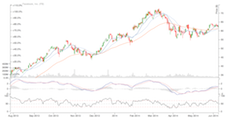
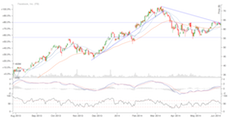
Adding trendlines, supstance and interactivity

diff --git a/examples/plot/plots/index.html b/examples/plot/plots/index.html
@@ -49,7 +49,6 @@
     }
 
     rect.pane {
-        cursor: move;
         fill: none;
         pointer-events: all;
     }
@@ -108,6 +107,32 @@
     path.middle, path.zero {
         stroke: #BBBBBB;
         stroke-dasharray: 5, 5;
+    }
+
+    .analysis path {
+        stroke: blue;
+        stroke-width: 1;
+    }
+
+    .interaction path, .interaction circle {
+        pointer-events: all;
+    }
+
+    .interaction .body {
+        cursor: move;
+    }
+
+    .trendlines .interaction .start, .trendlines .interaction .end {
+        cursor: nwse-resize
+    }
+
+    path.supstance {
+        stroke-dasharray: 2, 2;
+    }
+
+    .supstances .interaction path {
+        pointer-events: all;
+        cursor: ns-resize;
     }
 
 </style>
@@ -171,6 +196,14 @@
             .accessor(candlestick.accessor())   // Set the accessor to a ohlc accessor so we get highlighted bars
             .xScale(x)
             .yScale(yVolume);
+
+    var trendline = techan.plot.trendline()
+            .xScale(x)
+            .yScale(y);
+
+    var supstance = techan.plot.supstance()
+            .xScale(x)
+            .yScale(y);
 
     var xAxis = d3.svg.axis()
             .scale(x)
@@ -307,6 +340,14 @@
             .attr("height", dim.plot.height)
             .call(zoom);
 
+    // Add trendlines and other interactions last to be above zoom pane
+    svg.append("g")
+            .attr("class", "trendlines analysis")
+            .attr("clip-path", "url(#ohlcClip)");
+    svg.append("g")
+            .attr("class", "supstances analysis")
+            .attr("clip-path", "url(#ohlcClip)");
+
     d3.select("button").on("click", reset);
 
     d3.csv("data.csv", function(error, data) {
@@ -329,6 +370,16 @@
         yPercent.domain(techan.scale.plot.percent(y, accessor(data[indicatorPreRoll])).domain());
         yVolume.domain(techan.scale.plot.volume(data).domain());
 
+        var trendlineData = [
+            { start: { date: new Date(2014, 2, 11), value: 72.50 }, end: { date: new Date(2014, 5, 9), value: 63.34 } },
+            { start: { date: new Date(2013, 10, 21), value: 43 }, end: { date: new Date(2014, 2, 17), value: 70.50 } }
+        ];
+
+        var supstanceData = [
+            { start: new Date(2014, 2, 11), end: new Date(2014, 5, 9), value: 63.64 },
+            { start: new Date(2013, 10, 21), end: new Date(2014, 2, 17), value: 55.50 }
+        ];
+
         var macdData = techan.indicator.macd()(data);
         macdScale.domain(techan.scale.plot.macd(macdData).domain());
         var rsiData = techan.indicator.rsi()(data);
@@ -341,6 +392,10 @@
         svg.select("g.ema.ma-2").data([techan.indicator.ema().period(50)(data)]).call(ema2);
         svg.select("g.macd .indicator").data([macdData]).call(macd);
         svg.select("g.rsi .indicator").data([rsiData]).call(rsi);
+
+        svg.select("g.trendlines").data([trendlineData]).call(trendline).call(trendline.drag);
+        svg.select("g.supstances").data([supstanceData]).call(supstance).call(supstance.drag);
+
 
         var zoomable = x.zoomable();
         zoomable.domain([indicatorPreRoll, data.length]); // Zoom in a little to hide indicator preroll
@@ -397,6 +452,8 @@
         svg.select("g .ema.ma-2").call(ema2.refresh);
         svg.select("g.macd .indicator").call(macd.refresh);
         svg.select("g.rsi .indicator").call(rsi.refresh);
+        svg.select("g.trendlines").call(trendline.refresh);
+        svg.select("g.supstances").call(supstance.refresh);
     }
 
 </script>

diff --git a/examples/plot/plots/README.md b/examples/plot/plots/README.md
@@ -7,4 +7,6 @@ Plots rendering demo. A sample of what can be created with the available plot ty
     <li>Simple and Exponential Moving Averages</li>
     <li>Zooming</li>
     <li>Indicator combinations</li>
+    <li>Interactive trendlines</li>
+    <li>Interactive support and resistance lines</li>
 <p>
